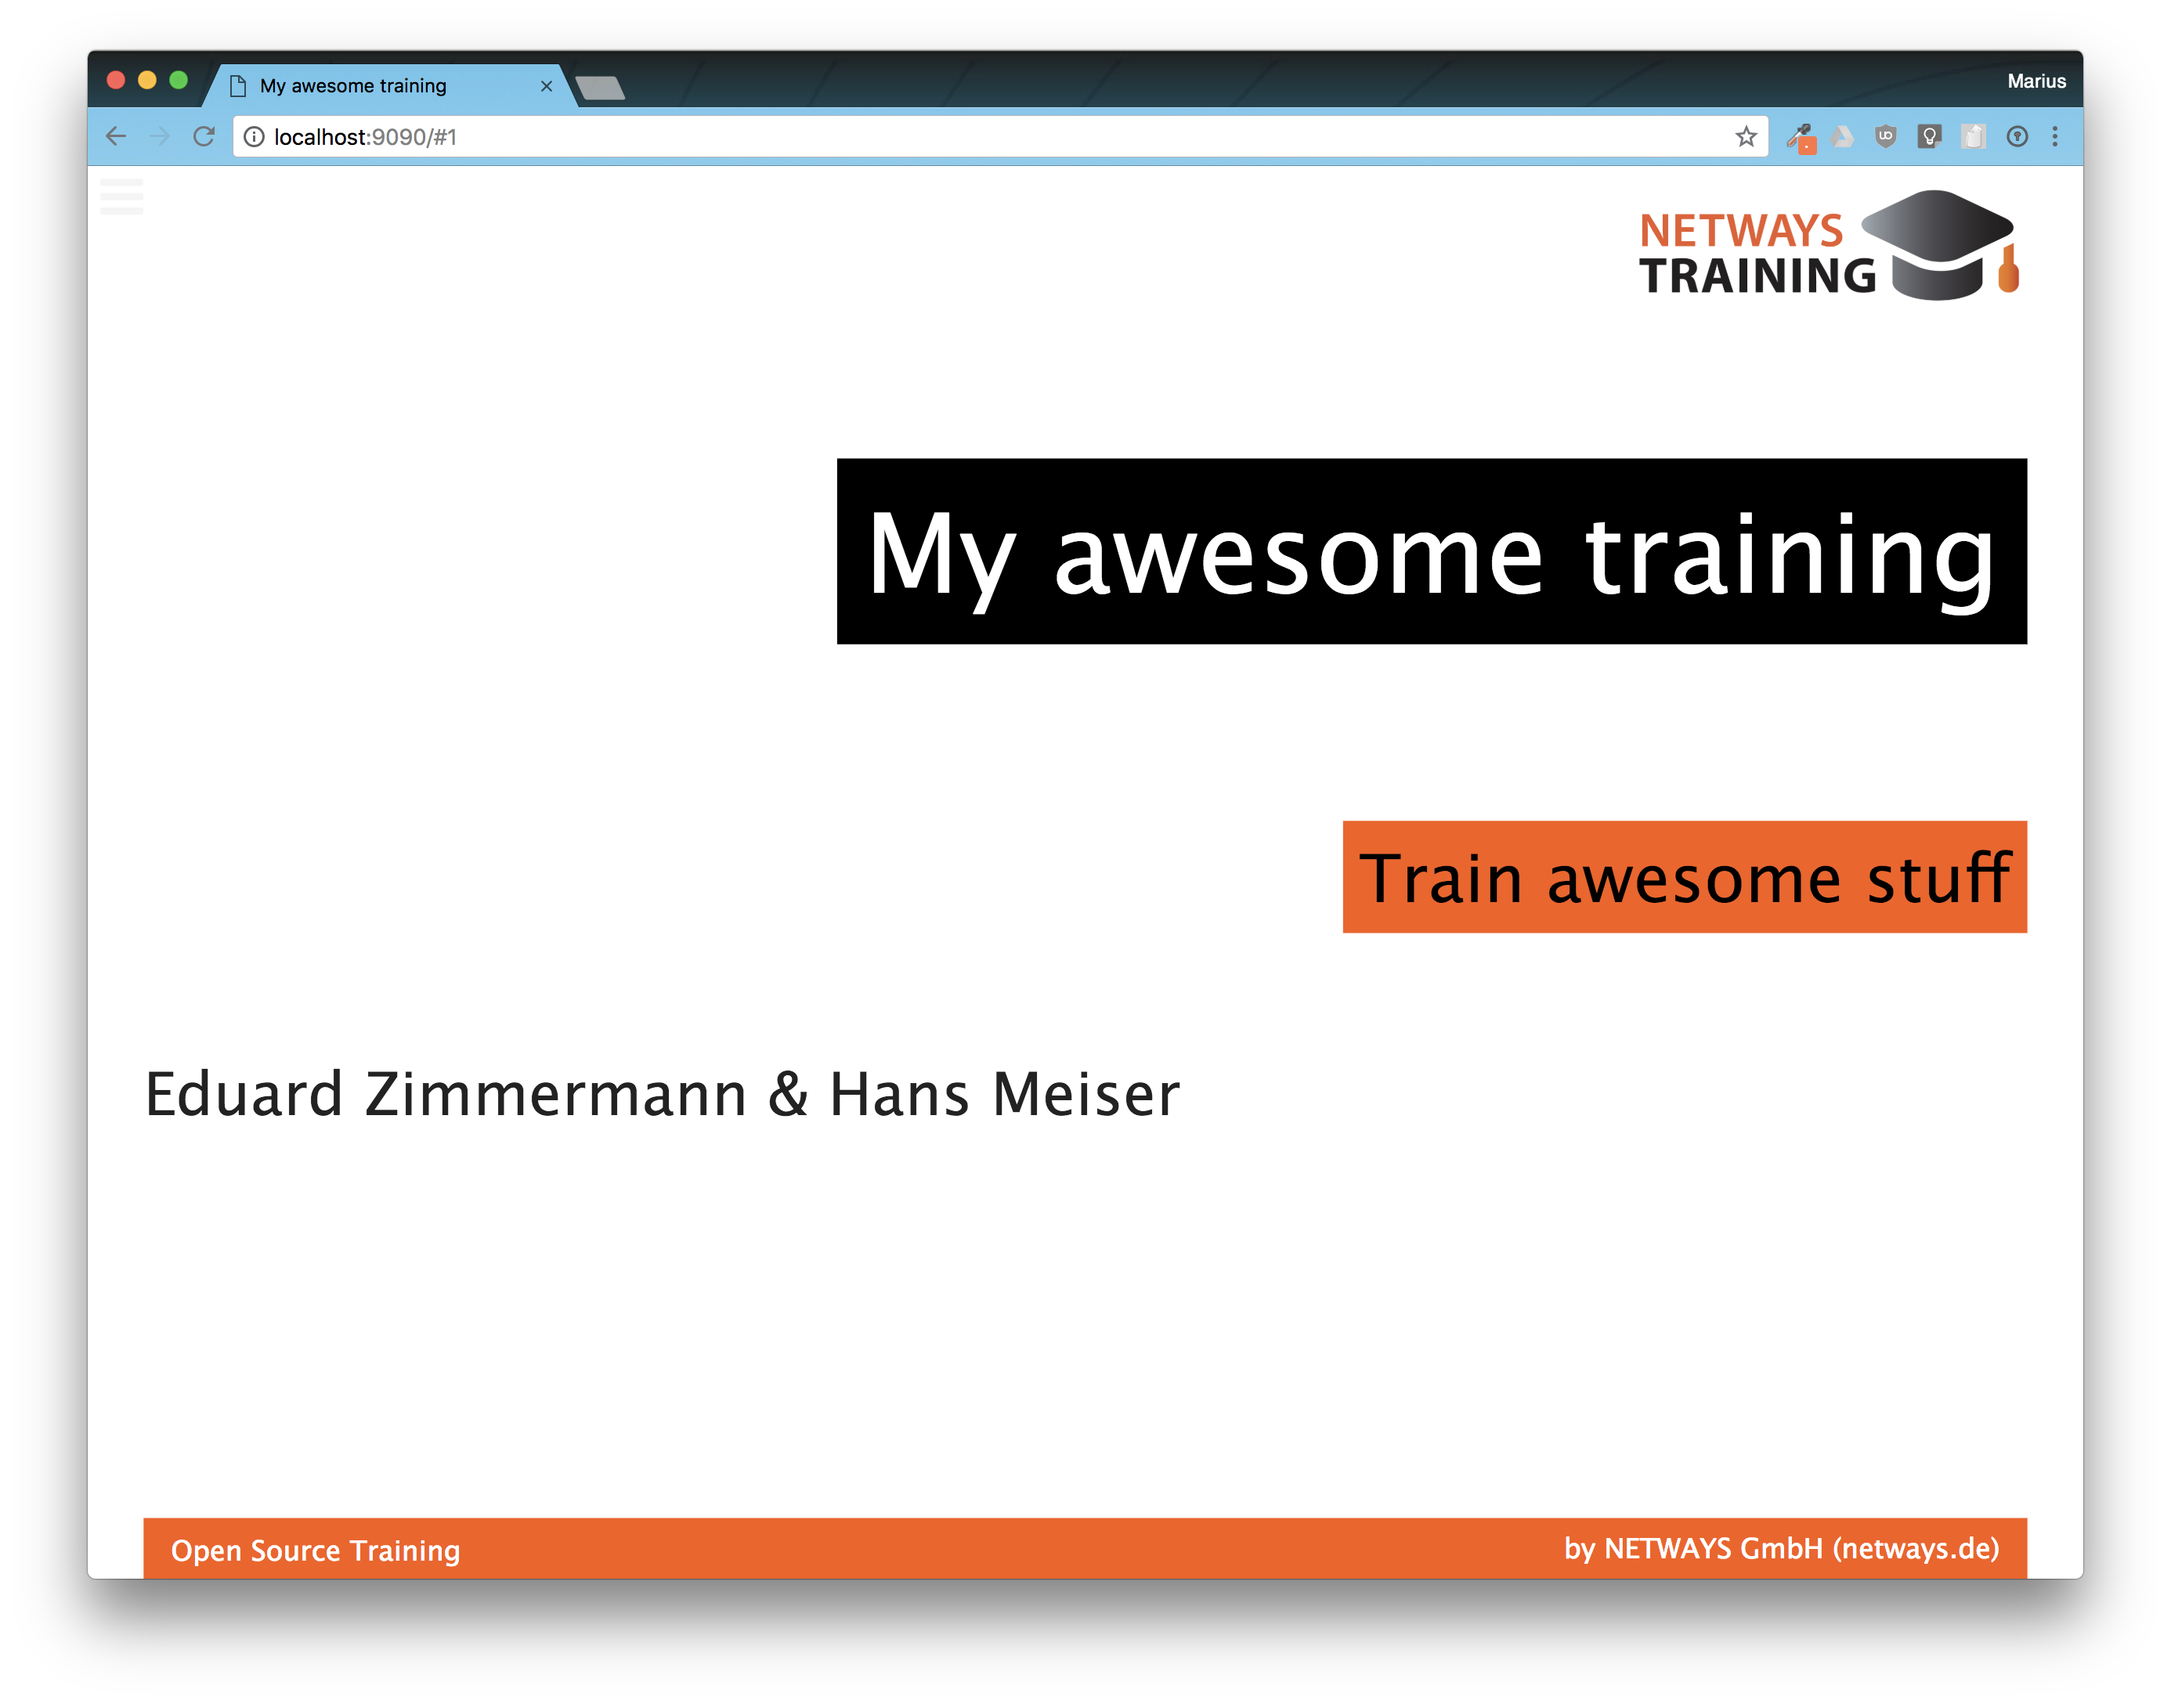
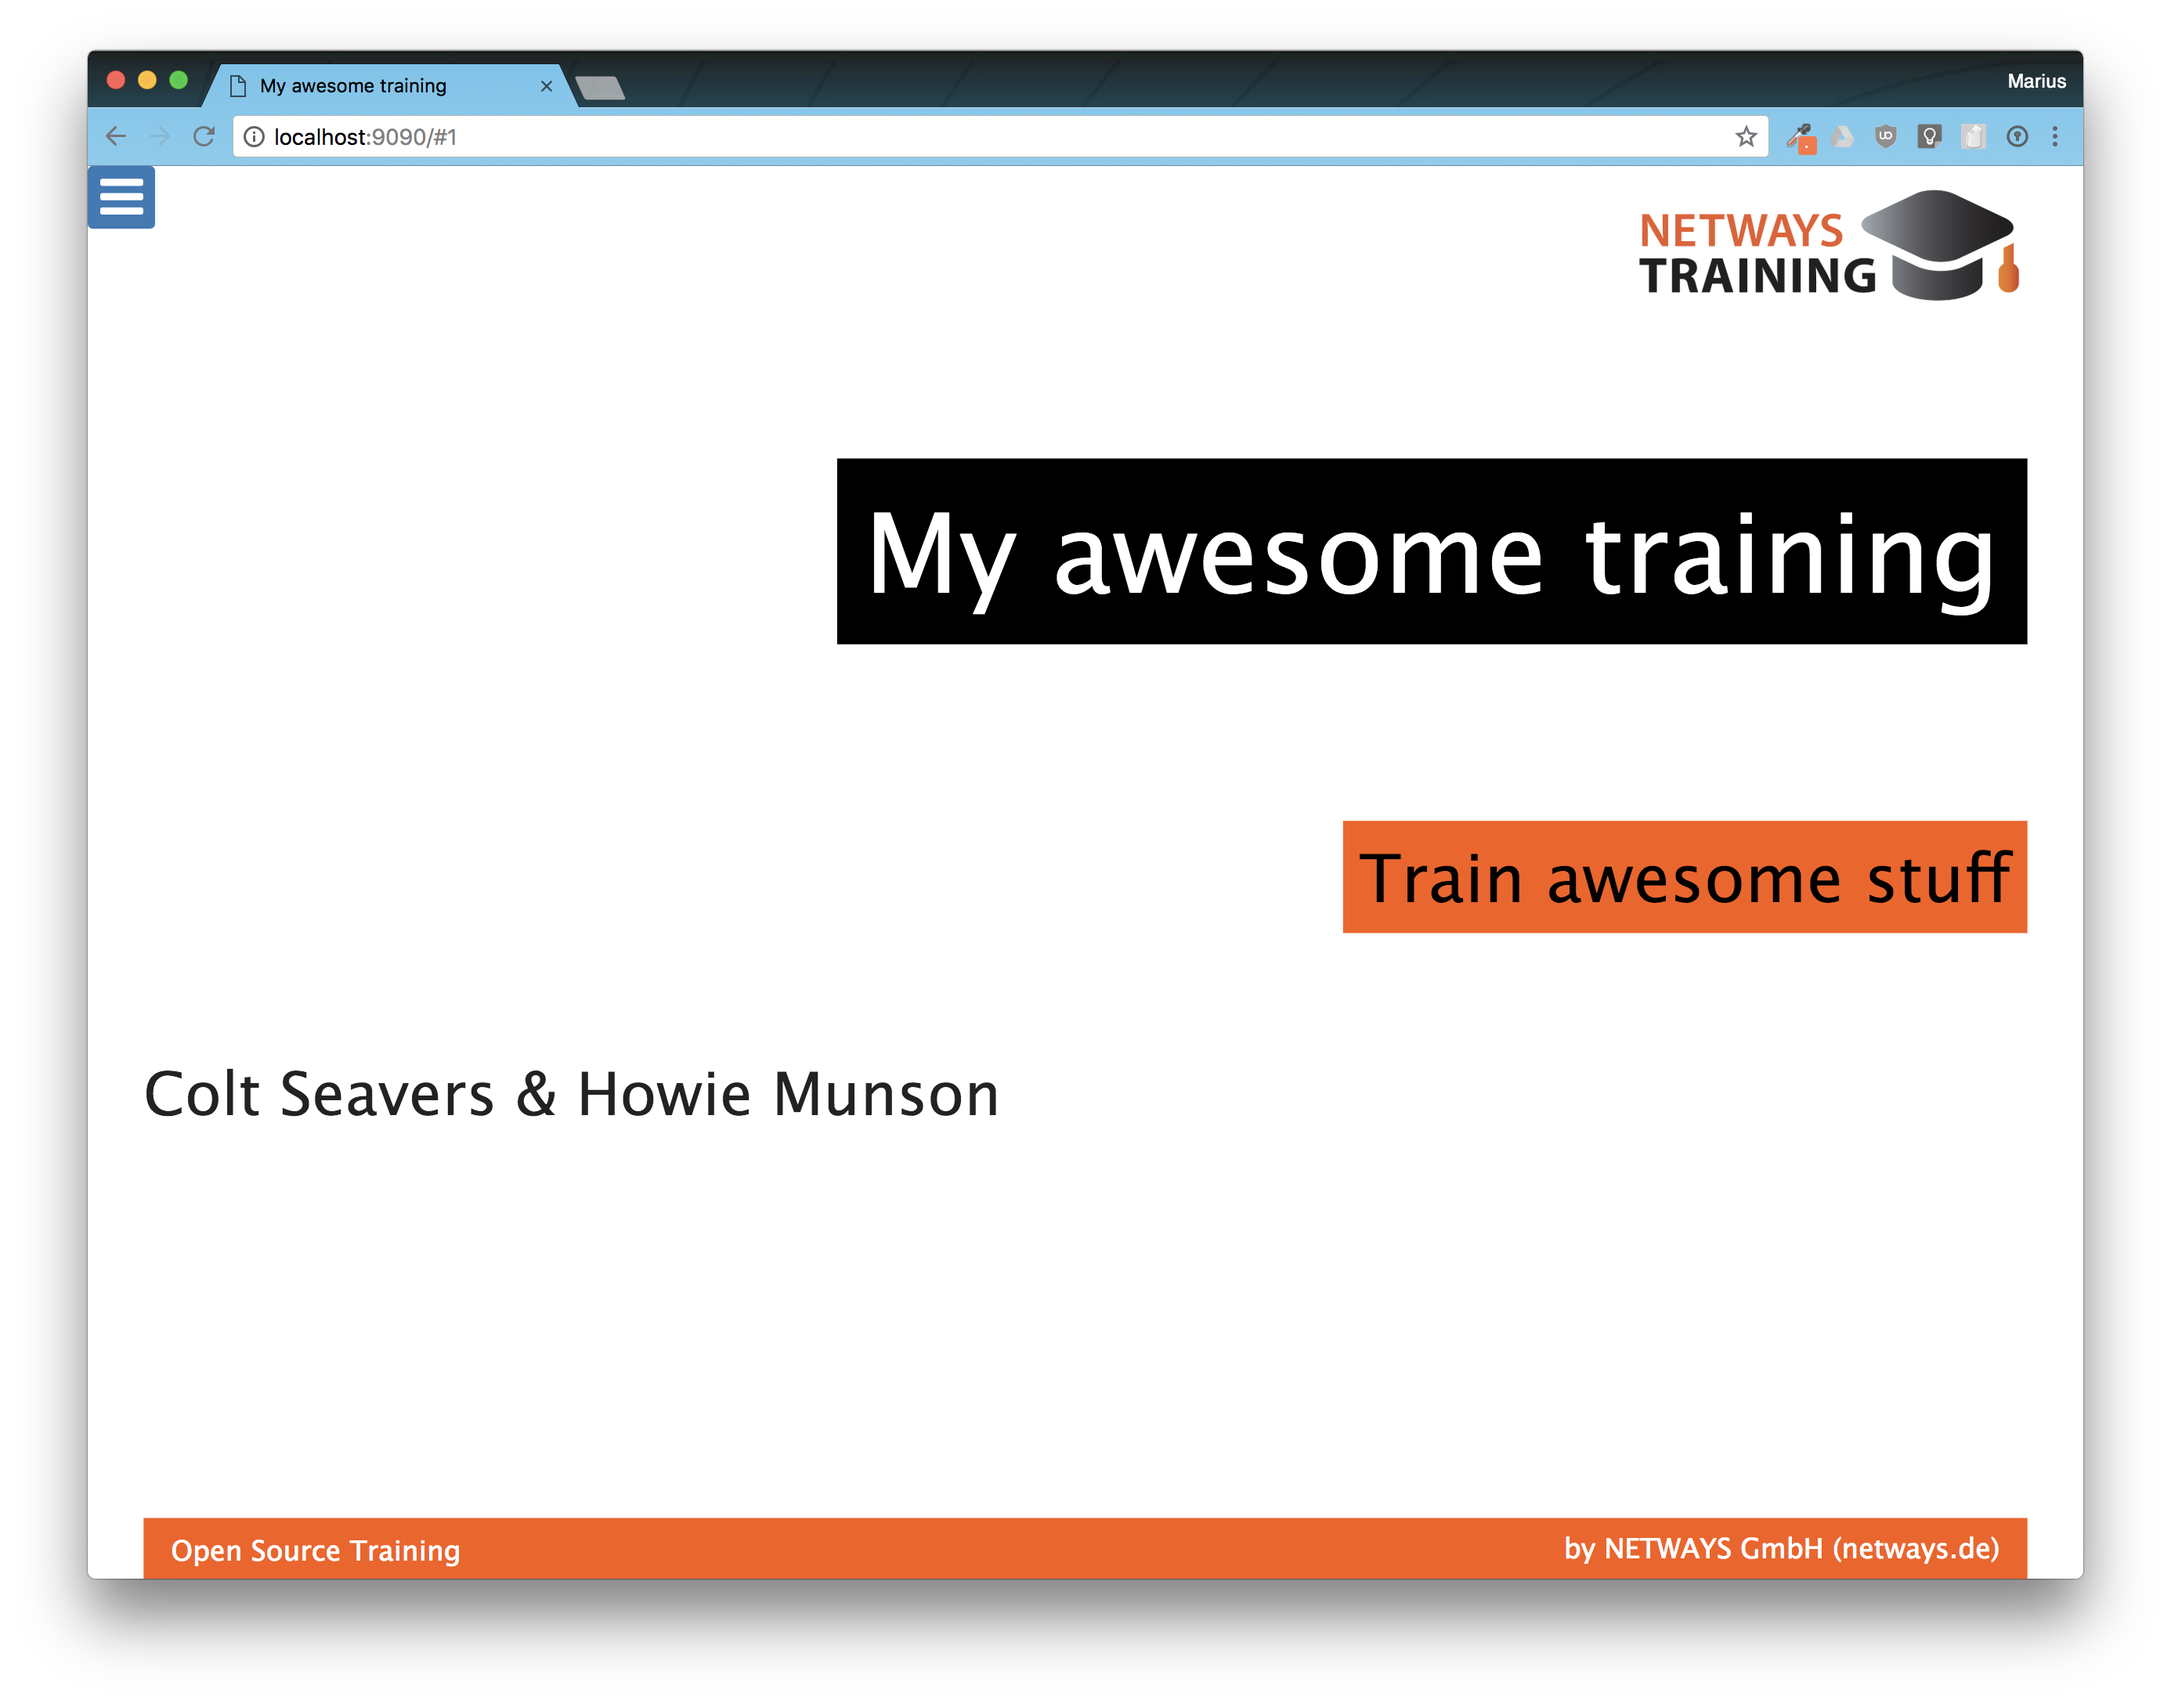
Update documentation

Changed region(s): [[0.062, 0.625, 0.5584, 0.6562], [0.031, 0.0938, 0.0931, 0.1562]]

diff --git a/README.md b/README.md
@@ -51,7 +51,7 @@ After this step you are able to copy files into the directory which are not capt
 ### 3. Link stylesheet to root level
 
 ```bash
-$ ln -s global/netways.css
+$ ln -s global/layouts/netways.css
 ```
 
 This step seems ugly and we totally agree with you. In order to print and convert the training slides into pdf, this
@@ -63,7 +63,7 @@ step is absolutely needed to succeed.
 { 
   "name": "My awesome training",
   "subtitle": "Train awesome stuff",
-  "author": "Eduard Zimmermann & Hans Meiser",
+  "author": "Colt Seavers & Howie Munson",
   "release": "0.9.0",
 
   "favicon": "image/global/favicon.ico",
@@ -78,14 +78,14 @@ step is absolutely needed to succeed.
   },
 
   "sections": [
-   {"section":"global/pre/title"},
-   
-   {"section":"trainer"},
-   
-   {"section":"global/pre/netways"},
-   {"section":"global/pre/hints"},
+   {"section": "global/pre/title"},
+   {"section": "trainer"},
+   {"section": "global/pre/netways"},
+   {"section": "global/pre/hints"},
 
-   {"section":"global/post"}
+   {"section": "sections/..."},
+
+   {"section": "global/post"}
   ]
 }
 ```
@@ -93,7 +93,7 @@ step is absolutely needed to succeed.
 After the file is created you're able to start the slide deck (showoff):
 
 ```bash
-$ showoff serve --review --verbose
+$ showoff serve
 ```
 
 ![Screenshot][screenshot1]
